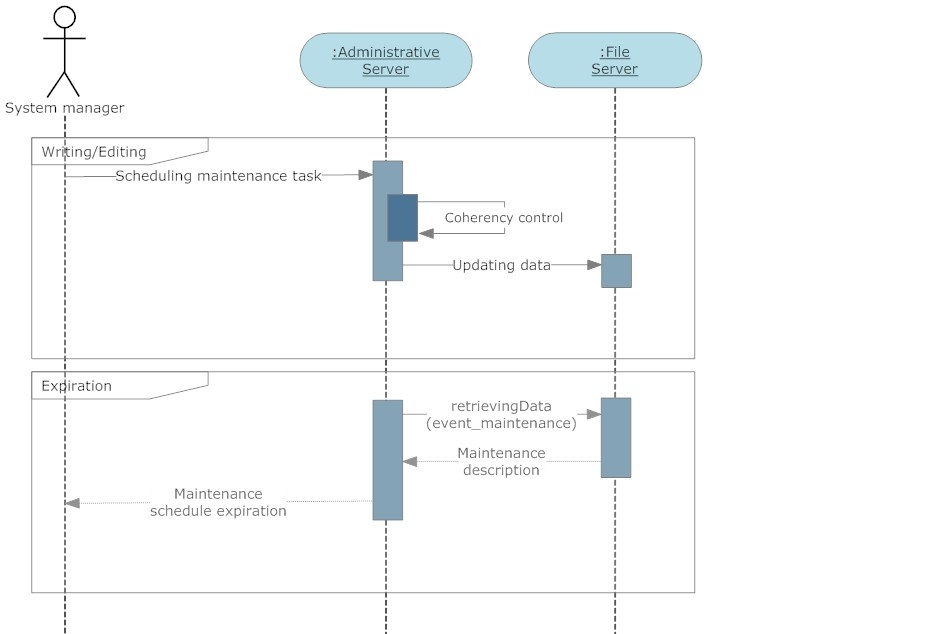
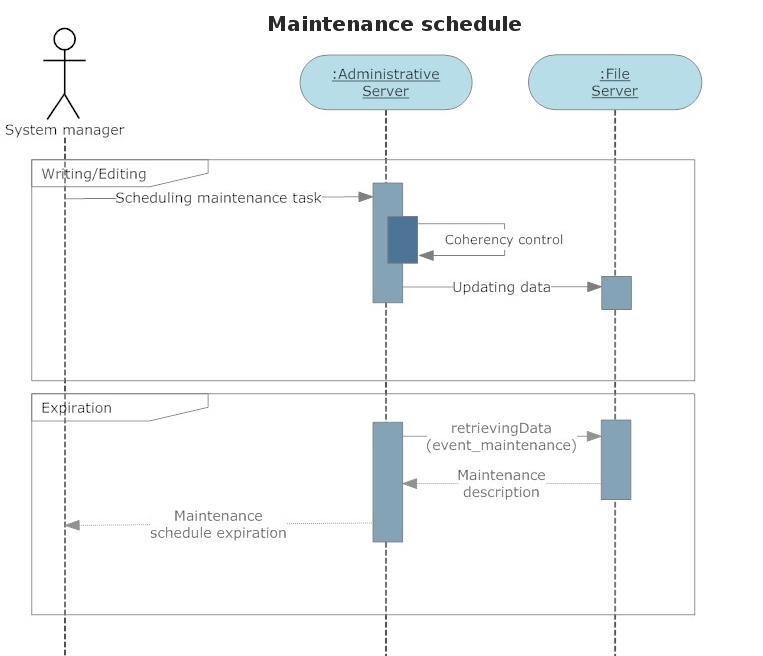
inserted Admnistrative.tex, not yet complete

Changed region(s): [[0.0, 0.0, 0.9043, 1.0], [0.3014, 0.03, 0.9345, 0.1798], [0.1507, 0.7492, 0.3617, 0.8391]]

diff --git a/ois_prj/assign3/sections/useCases.tex b/ois_prj/assign3/sections/useCases.tex
@@ -1,5 +1,5 @@
 \subsection{Administrative}
-The Administrative use case represented in figure \ref{2img:[use]administrative} illustrate the several actions the actors may be involved to. In particular the ``Login'' case is shared by each entity and so it can be generalized for a non defined user that may acess the System.
+The Administrative use case represented in figure \ref{3img:[use]administrative} illustrate the several actions the actors may be involved to. In particular the ``Login'' case is shared by each entity and so it can be generalized for a non defined user that may acess the System.
 
 The use cases are described following:
 \begin{description}
@@ -18,13 +18,13 @@ The use cases are described following:
 \begin{centering}
 \includegraphics[scale=0.35]{assign3/adonis/imgs/administrative.jpg}
 \caption{AllSpark Administrative use case.}
-\label{2img:[use]administrative}
+\label{3img:[use]administrative}
 \end{centering}
 \end{figure}
 
 
 \subsection{Project}
-The use case for Project, figured in \ref{2img:[use]project}, contains several interactions centered on the Project itself. In particular only three actors are involved in the work considering their objective.
+The use case for Project, figured in \ref{3img:[use]project}, contains several interactions centered on the Project itself. In particular only three actors are involved in the work considering their objective.
 The use cases are described following:
 \begin{description}
 \item[Status update:] allows the programmer to update its works status in order to mantain a guideline in the Project monitoring.
@@ -39,12 +39,12 @@ The use cases are described following:
 \begin{centering}
 \includegraphics[scale=0.45]{assign3/adonis/imgs/project.jpg}
 \caption{AllSpark Project use case.}
-\label{2img:[use]project}
+\label{3img:[use]project}
 \end{centering}
 \end{figure}
 
 \subsection{Course}
-The Course use case represented in \ref{2img:[use]Course} illustrates the several actions that the System should support in order to facilitate the entire management of a course. In particular the ``Lecturer'' is a generalization of several actors in that, depending on the course's subject, there may be requested specific skills.
+The Course use case represented in \ref{3img:[use]Course} illustrates the several actions that the System should support in order to facilitate the entire management of a course. In particular the ``Lecturer'' is a generalization of several actors in that, depending on the course's subject, there may be requested specific skills.
 \begin{description}
  \item[Course material Management:] is the supporting function aimed to easily manage the set of data provided by the Lecturer to student for a specified course.
  \item[Certification delivery:] once the student successful pass the examination owns the right to receive the certification of his studies that have to be confirmed by the Lecturer. The deliver of the acknoledgment has to be authorized by the Chief Executive Officier in that responsible of the Company granting the certificate.
@@ -57,13 +57,13 @@ The Course use case represented in \ref{2img:[use]Course} illustrates the severa
 \begin{centering}
 \includegraphics[scale=0.45]{assign3/adonis/imgs/course.jpg}
 \caption{AllSpark Course use case.}
-\label{2img:[use]Course}
+\label{3img:[use]Course}
 \end{centering}
 \end{figure}
 
 
 \subsection{Commercial}
-In order to support the Company in its decisions concerning the business finalities, the use case diagram illustrated in figure \ref{2img:[use]commercial} identify the main actions that actors may perform. In particular they are related on the customers' management and marketing campaign.
+In order to support the Company in its decisions concerning the business finalities, the use case diagram illustrated in figure \ref{3img:[use]commercial} identify the main actions that actors may perform. In particular they are related on the customers' management and marketing campaign.
 \begin{description}
  \item[Customers management:] is the important supply function that allow the Representative to mantain the contacts with the AllSpark's customer, in order to manage meeting, comunicate offers and general relationship affairs such as ``Product demos''.
  \item[Campaign planning:] is the Business operator objective to efficiently plan a marketing campaign and so different tools involve to support.
@@ -74,30 +74,30 @@ In order to support the Company in its decisions concerning the business finalit
 \begin{centering}
 \includegraphics[scale=0.45]{assign3/adonis/imgs/commercial.jpg}
 \caption{AllSpark Commercial use case.}
-\label{2img:[use]commercial}
+\label{3img:[use]commercial}
 \end{centering}
 \end{figure}
 
 
 \subsection{Resource}
-The real interesting resources that AllSpark need to manage are the system resources and this duty is entirely left to System Manager. The use case forseen represent the unique \textbf{inventory management} actions that supply the employee in the hardware inventory management. The systems used inside AllSpark are both software and hardware and the System Manager has to administrate both efficiently. The figure \ref{2img:[use]resource} illustrate the diagram just described.
+The real interesting resources that AllSpark need to manage are the system resources and this duty is entirely left to System Manager. The use case forseen represent the unique \textbf{inventory management} actions that supply the employee in the hardware inventory management. The systems used inside AllSpark are both software and hardware and the System Manager has to administrate both efficiently. The figure \ref{3img:[use]resource} illustrate the diagram just described.
 
 \begin{figure}
 \begin{centering}
 \includegraphics[scale=0.45]{assign3/adonis/imgs/resource.jpg}
 \caption{AllSpark use case representing the Resource management.}
-\label{2img:[use]resource}
+\label{3img:[use]resource}
 \end{centering}
 \end{figure}
 
 
 \subsection{Documentation}
-The issue in the Information Technology era is the massive presence of informations that may overfit each functions. The main idea of AllSpark is to efficiently manage the documentation concerning all kind of information regarding its products improving the search and presentation. The use case in figure \ref{2img:[use]documentation} shows the three actors involved in the production that use the \textbf{Editing documentation} function that aid the formatting and recording of all documentation related to a project. The Representative instead use a dedicated function\footnote{But it may be considered that the ``Editing documentation'' already implement a sort of kind.} to retrieve the essential informations that can interest the customer.
+The issue in the Information Technology era is the massive presence of informations that may overfit each functions. The main idea of AllSpark is to efficiently manage the documentation concerning all kind of information regarding its products improving the search and presentation. The use case in figure \ref{3img:[use]documentation} shows the three actors involved in the production that use the \textbf{Editing documentation} function that aid the formatting and recording of all documentation related to a project. The Representative instead use a dedicated function\footnote{But it may be considered that the ``Editing documentation'' already implement a sort of kind.} to retrieve the essential informations that can interest the customer.
 
 \begin{figure}
 \begin{centering}
 \includegraphics[scale=0.45]{assign3/adonis/imgs/documentation.jpg}
 \caption{AllSpark Documentation management use case.}
-\label{2img:[use]documentation}
+\label{3img:[use]documentation}
 \end{centering}
 \end{figure}

diff --git a/ois_prj/assign3/sections/Administrative.tex b/ois_prj/assign3/sections/Administrative.tex
@@ -1,1 +1,108 @@
-\subsection{gioco}
+\subsection{Login}
+
+\begin{figure}
+\begin{centering}
+\includegraphics[scale=0.45]{assign3/sdraw/imgs/login.jpg}
+\caption{Login sequence diagram.}
+\label{3img:[sequence]login}
+\end{centering}
+\end{figure}
+
+\subsection{Sending order}
+\begin{figure}
+\begin{centering}
+\includegraphics[scale=0.45,angle=90]{assign3/sdraw/imgs/sending_order.jpg}
+\caption{Sending order sequence diagram.}
+\label{3img:[sequence]sending_order}
+\end{centering}
+\end{figure}
+
+\subsection{Maintenance schedule}
+\begin{figure}
+\begin{centering}
+\includegraphics[scale=0.50]{assign3/sdraw/imgs/maintenance.jpg}
+\caption{Maintenance schedule sequence diagram.}
+\label{3img:[sequence]maintenance}
+\end{centering}
+\end{figure}
+
+\subsection{Meeting management}
+\begin{figure}
+\begin{centering}
+\includegraphics[scale=0.35]{assign3/sdraw/imgs/meeting.jpg}
+\caption{Meeting management sequence diagram.}
+\label{3img:[sequence]meeting}
+\end{centering}
+\end{figure}
+
+\subsection{Project planning}
+\begin{figure}
+\begin{centering}
+\includegraphics[scale=0.30,angle=90]{assign3/sdraw/imgs/project_planning.jpg}
+\caption{Project planning sequence diagram.}
+\label{3img:[sequence]project_planning}
+\end{centering}
+\end{figure}
+
+\subsection{Checking work}
+\begin{figure}
+\begin{centering}
+\includegraphics[scale=0.35]{assign3/sdraw/imgs/checking.jpg}
+\caption{Checking work sequence diagram.}
+\label{3img:[sequence]checking}
+\end{centering}
+\end{figure}
+
+\subsection{Team monitoring}
+\begin{figure}
+\begin{centering}
+\includegraphics[scale=0.40,angle=90]{assign3/sdraw/imgs/team_monitoring.jpg}
+\caption{Team monitoring sequence diagram.}
+\label{3img:[sequence]team_monitoring}
+\end{centering}
+\end{figure}
+
+\subsection{Course log}
+\begin{figure}
+\begin{centering}
+\includegraphics[scale=0.45]{assign3/sdraw/imgs/course_log.jpg}
+\caption{Course log sequence diagram.}
+\label{3img:[sequence]course_log}
+\end{centering}
+\end{figure}
+
+\subsection{Certification}
+\begin{figure}
+\begin{centering}
+\includegraphics[scale=0.55]{assign3/sdraw/imgs/certification.jpg}
+\caption{Certification sequence diagram.}
+\label{3img:[sequence]certification}
+\end{centering}
+\end{figure}
+
+\subsection{Campaign planning}
+\begin{figure}
+\begin{centering}
+\includegraphics[scale=0.35,angle=90]{assign3/sdraw/imgs/campaign_planning.jpg}
+\caption{Campaign planning sequence diagram.}
+\label{3img:[sequence]campaign_planning}
+\end{centering}
+\end{figure}
+
+\subsection{Inventory management}
+\begin{figure}
+\begin{centering}
+\includegraphics[scale=0.45]{assign3/sdraw/imgs/inventory.jpg}
+\caption{Inventory management sequence diagram.}
+\label{3img:[sequence]inventory}
+\end{centering}
+\end{figure}
+
+\subsection{Editing documentation}
+\begin{figure}
+\begin{centering}
+\includegraphics[scale=0.45]{assign3/sdraw/imgs/editing.jpg}
+\caption{Editing documentation sequence diagram.}
+\label{3img:[sequence]editing}
+\end{centering}
+\end{figure}

diff --git a/ois_prj/assign3/Assignment3.tex b/ois_prj/assign3/Assignment3.tex
@@ -7,7 +7,7 @@ Since the digital technology reach each task of the Company, a lot of operations
 
 The Information System structure base its functionality on six independent server that are charged to satisfy functions for a defined close context and several independent lightweight computers adopted by the personal that use the servers provide functionalities. This is a modularization of the working load to improve efficiency and reliability.
 
-The six servers are represented in figure \ref{2img:NetMap} and follow described:
+The six servers are represented in figure \ref{3img:NetMap} and follow described:
 \begin{description}
 \item[Administrative Server:] is the main server for the Company's lifecycle operations. This is the core of the aggregated functionalities such as the Business operations, the high level resource management and authority identification.
 \item[Project Support Server:] aims to furnish the best services to developers regrouping data, resources and services used during the Project development. The unique scope of this machine is to supply each needing of Projects.
@@ -21,7 +21,7 @@ The six servers are represented in figure \ref{2img:NetMap} and follow described
 \begin{centering}
 \includegraphics[scale=0.45]{assign3/dia/NetMap.jpeg}
 \caption{AllSpark Network Map.}
-\label{2img:NetMap}
+\label{3img:NetMap}
 \end{centering}
 \end{figure}
 
@@ -33,10 +33,14 @@ The functions are pretty isolated since the structure has been thought to be mod
  
 
 % =================
-% UseCases
+% Use Cases
 % ================= 
 \input{assign3/sections/useCases}
 
+% =================
+% Class Diagram
+% =================
+\input{assign3/sections/classDiags}
 
 % =================
 % Sequence
